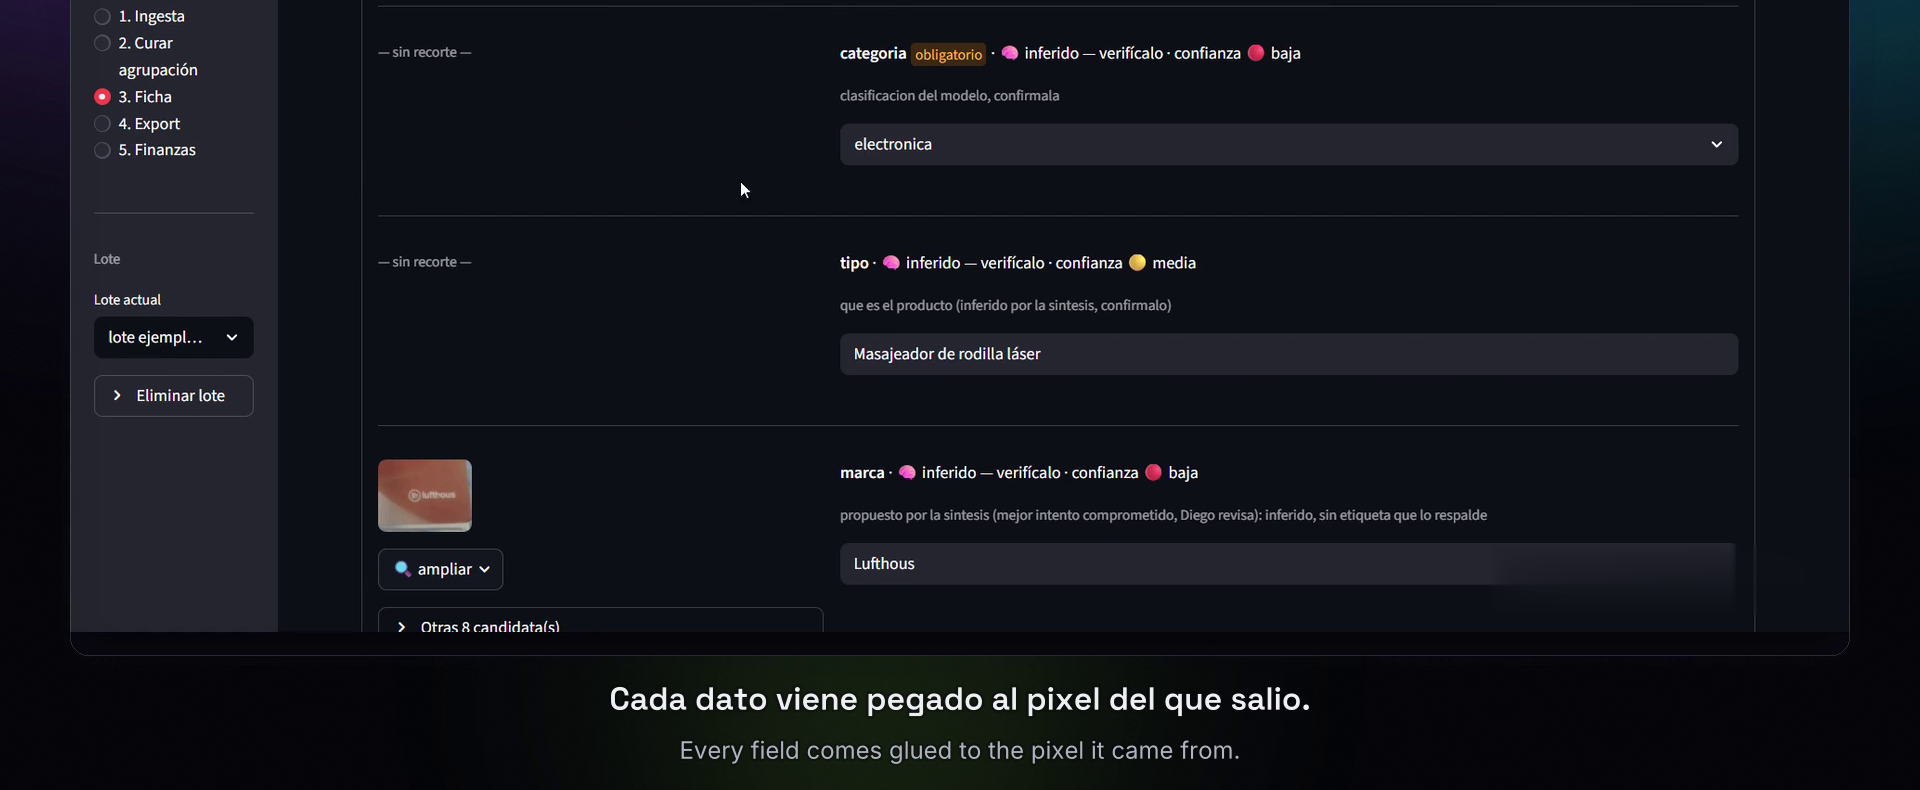
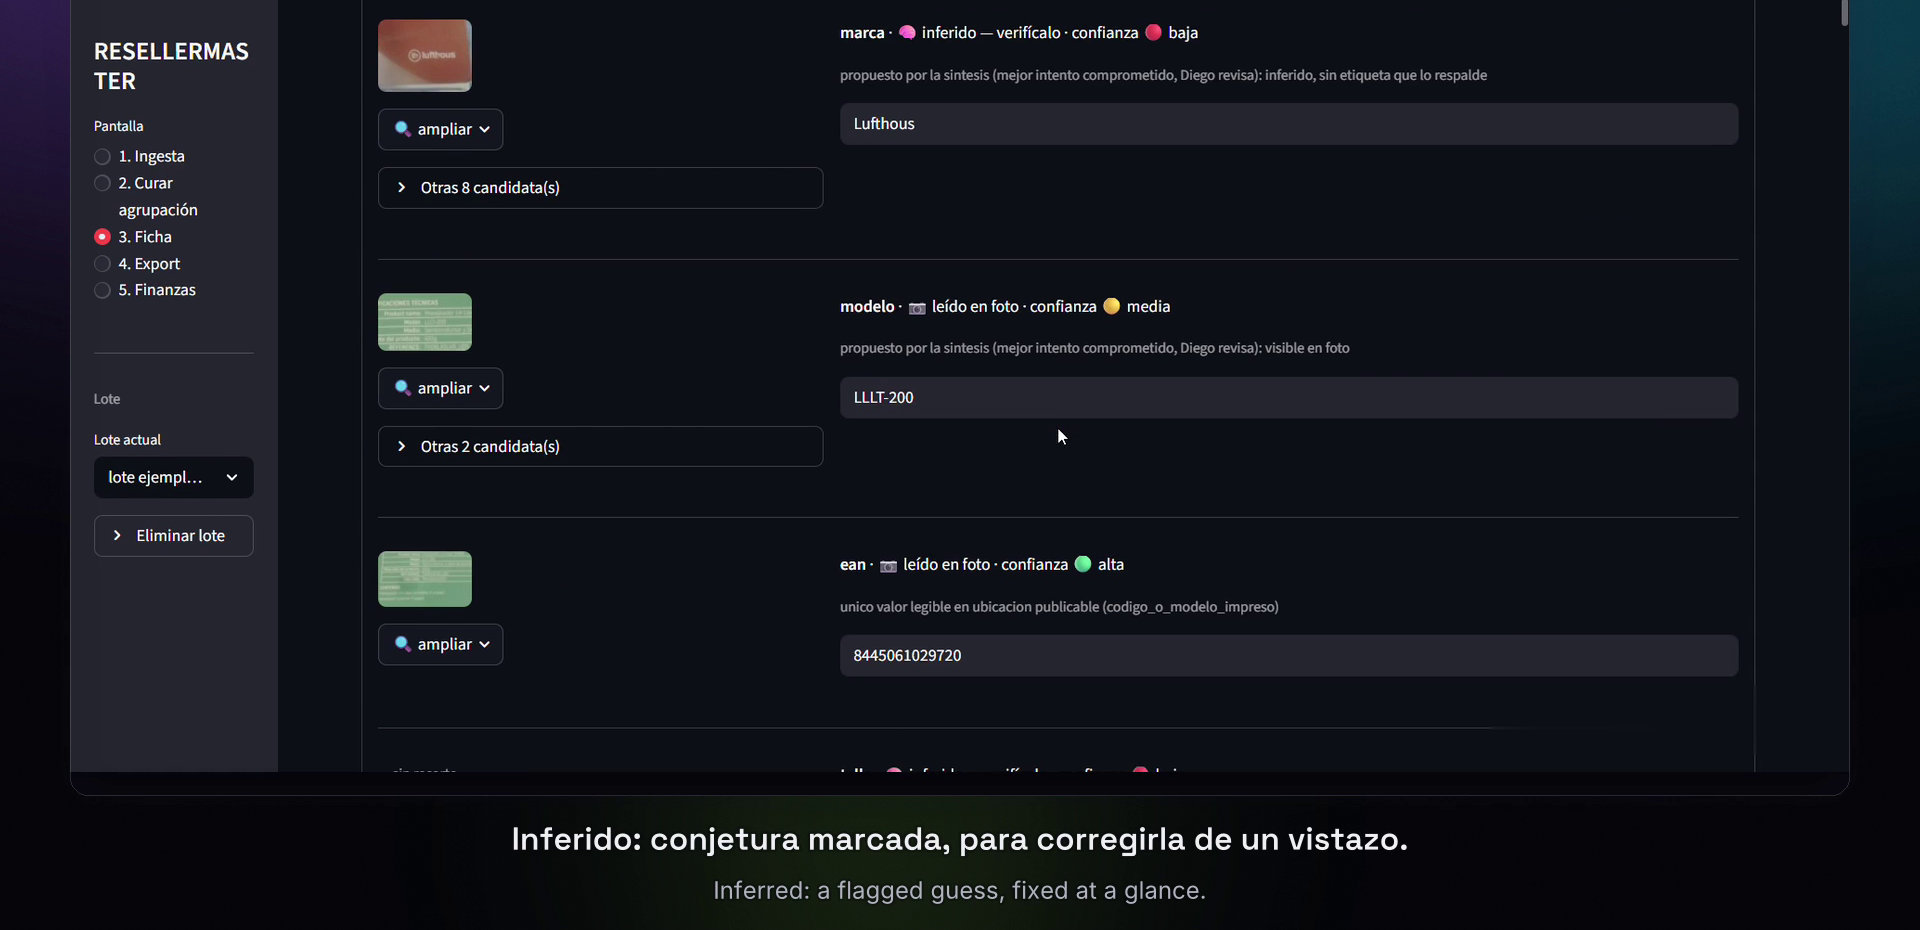
docs+deps: clavar versiones y corregir el README tras un careo adversarial
Un ingeniero (agente) que NO habia visto el portafolio leyo solo el README,
verifico cada afirmacion EJECUTANDO y encontro un patron que duele porque es
la regla §17 del propio repo aplicada al reves: "la prosa va medio paso por
delante de la evidencia".

CORRECCIONES AL README (todas las hallo el careo, ninguna es cosmetica):

- **"3,4 cts · Medido" era FALSO, y es el peor de todos.** Sale de
  `LLMEngine.estimar_coste_lote`, cuyo docstring dice literalmente "no llama a
  la API" y que multiplica una constante de 1.600 tokens/imagen. El numero
  FACTURADO existia (`CLAUDE.md:79`: 14,5 cts / 62 llamadas, 0,95 cts un
  producto con sintesis) y el README lo ignoro para etiquetar "Medido" la
  salida de una funcion que se llama `estimar_`. Ahora estan los dos, con su
  procedencia separada, y se dice que el estimador sobreestima ~1,3x. En el
  unico documento cuya tesis es "un dato sin procedencia es una mentira
  plausible", esta era la grieta que ponia en duda todo lo demas.
- **La captura CONTRADECIA la tesis.** Los tres campos visibles eran 🧠
  inferido y dos "— sin recorte —": la imagen elegida para probar "cada dato
  viene pegado a su pixel" no contenia ni un dato pegado a un pixel.
  Sustituida por un frame con `marca` 🧠 inferido junto a `modelo` y `ean` 📷
  leido en foto, cada uno CON su recorte.
- **"inconstruible" era un absoluto que el codigo no sostiene.** Se rompe por
  tres vias (Campo no es frozen; deserializar_extraccion devuelve dicts sin
[…]

diff --git a/README.md b/README.md
@@ -1,16 +1,20 @@
 # RESELLERMASTER
 
 **Entra un lote de fotos mezcladas de ropa y trastos de segunda mano. Salen fichas listas para pegar
-en Wallapop y Vinted — y la app no afirma ni un solo dato que no pueda señalar en un píxel.**
+en Wallapop y Vinted — y ningún campo dice venir de una foto sin que un `if` haya comprobado el
+píxel que lo prueba.**
 
-![Pantalla de ficha: cada campo con su recorte, su procedencia y su nivel de confianza](docs/img/ficha.png)
+![Pantalla de ficha: `marca` sale como 🧠 inferido con confianza baja; `modelo` y `ean` como 📷 leído en foto, cada uno junto al recorte exacto del que se leyó](docs/img/ficha.png)
+
+<sub>Tres campos del mismo producto: `marca` es una **conjetura marcada** (🧠, confianza baja, *«sin etiqueta que lo respalde»*), mientras que `modelo` y `ean` están **leídos de un píxel concreto** (📷) y el recorte que lo prueba está ahí al lado. El `ean` es el único campo del sistema que puede llegar a `confianza alta`, y sólo porque su checksum GS1 lo verifica.</sub>
 
 > **EN — TL;DR.** A local single-user Streamlit app for second-hand resale. It ingests a batch of mixed
 > photos, groups them per product (human confirms), reads the attributes with OCR + a vision model, and
 > produces copy-paste-ready listings for two Spanish marketplaces. The point isn't the automation — it's
 > the **guardrail**: every field carries its provenance (`foto` / `inferido` / `diego`), and a field
-> claiming to come from a photo **cannot be constructed without the pixel that proves it** — it raises at
-> construction time. Prices never come from the model; they come from observed comparables or they don't
+> claiming to come from a photo **cannot be constructed without the pixel that proves it** — it raises in
+> `__post_init__`. (Scope, stated honestly: that guards construction, which is how everything the pipeline
+> produces gets in; it is not a global invariant.) Prices never come from the model; they come from observed comparables or they don't
 > come at all. Code, docs and commit history are in Spanish.
 
 ---
@@ -56,8 +60,8 @@ if self.fuente == "foto" and self.evidencia is None:
     )
 ```
 
-Un campo que dice venir de la foto sin el píxel que lo respalda **no es que esté desaconsejado: es
-inconstruible**. Y `fuente="foto"` sólo se asigna si el valor está *literalmente contenido* en el texto
+Un campo que dice venir de la foto sin el píxel que lo respalda **no está desaconsejado: no se puede
+construir**. Y `fuente="foto"` sólo se asigna si el valor está *literalmente contenido* en el texto
 legible del recorte citado — no basta con que la cita exista
 ([`core/extract.py::_construir_campo_desde_sintesis`](core/extract.py)). Esa distinción costó un veredicto
 bloqueante en una auditoría interna: el modelo podía **extender** una lectura real (`"Reebok"` →
@@ -66,21 +70,13 @@ bloqueante en una auditoría interna: el modelo podía **extender** una lectura 
 Quien afirma, al final, es el humano: Diego revisa cada campo **con el recorte al lado** y confirma, y ahí
 la `fuente` pasa a `diego`. La máquina propone y enseña el píxel; la persona cierra.
 
-## Sobre leer los precios de Wallapop
-
-`core/pricing.py` hace peticiones **de lectura** a la búsqueda pública de Wallapop para calcular la mediana
-de comparables. Las condiciones están escritas en las reglas del repo
-([`.claude/rules/architecture.md`](.claude/rules/architecture.md)) y se respetan en el código:
-
-- **Leer resultados públicos ≠ publicar.** Nunca se toca una cuenta, no se publica, no se edita, no se
-  mensajea. Cero escritura.
-- **Volumen doméstico**: ~7 productos por lote, pocos lotes al mes — menos peticiones que una persona
-  navegando.
-- **Prohibidas las herramientas *stealth*.** Sin proxies rotativos, sin fingerprints, sin evasión
-  anti-bot. Es un `GET` plano. Vinted se quedó fuera precisamente por eso: su búsqueda está tras Datadome
-  y no se intentó rodearlo.
-
-Si vas a reutilizar esto, la disciplina va con el código.
+**Hasta dónde llega esa garantía, dicho sin adornos.** El `if` protege la *construcción*, que es por donde
+entra todo lo que produce el pipeline. No es un invariante global: `Campo` es un dataclass mutable, así que
+alguien puede construirlo bien y reasignar `fuente` después; y al persistir, `deserializar_extraccion`
+devuelve dicts, no `Campo`s, de modo que un registro manipulado a mano en la base de datos no vuelve a pasar
+por el `if`. Hoy nadie escribe por esas vías —sólo escribe el pipeline, que sí construye `Campo`s— así que
+es un hueco de defensa en profundidad, no un fallo vivo. Pero es una propiedad de una función, no del
+sistema entero, y decirlo de más sería justo el tipo de afirmación que este repo existe para no hacer.
 
 ## Cómo correrlo
 
@@ -103,14 +99,31 @@ Para levantar la app: `streamlit run app.py`. Agrupar y curar es gratis y offlin
 atributos necesita una `ANTHROPIC_API_KEY` en `.env` (ver [`.env.example`](.env.example)) y cuesta
 céntimos, cacheados por hash de imagen.
 
+## Sobre leer los precios de Wallapop
+
+`core/pricing.py` hace peticiones **de lectura** a la búsqueda pública de Wallapop para calcular la mediana
+de comparables. Las condiciones están escritas en las reglas del repo
+([`.claude/rules/architecture.md`](.claude/rules/architecture.md)) y se respetan en el código:
+
+- **Leer resultados públicos ≠ publicar.** Nunca se toca una cuenta, no se publica, no se edita, no se
+  mensajea. Cero escritura.
+- **Volumen doméstico**: ~7 productos por lote, pocos lotes al mes — menos peticiones que una persona
+  navegando.
+- **Prohibidas las herramientas *stealth*.** Sin proxies rotativos, sin fingerprints, sin evasión
+  anti-bot. Es un `GET` plano. Vinted se quedó fuera precisamente por eso: su búsqueda está tras Datadome
+  y no se intentó rodearlo.
+
+Si vas a reutilizar esto, la disciplina va con el código.
+
 ## Los números, y de dónde sale cada uno
 
 Este repo trata la procedencia de un dato de la ficha con dureza, así que la misma vara se aplica aquí:
 
 | Dato | Valor | Procedencia |
 |---|---|---|
-| Alucinaciones sobre 33 fotos reales | **0** | **Medido** con la API real. Se abstiene en las 6 trampas ilegibles del golden set |
-| Coste por producto | **3,4 cts** (0 al reprocesar) | **Medido** — sale de `LLMEngine.estimar_coste_lote` sobre el pipeline real, no de una estimación a ojo |
+| Alucinaciones con `confianza=alta` sobre 33 fotos reales | **0** | **Medido** con la API real — pero léelo con su límite: `alta` es casi inalcanzable **por diseño** (sólo la da un checksum de EAN; el `json_schema` de la síntesis ni admite el literal). El 0 es sobre todo una consecuencia estructural, no un resultado empírico sorprendente. Las de confianza media/baja se imprimen pero no se asertan |
+| Coste por producto, **facturado** | **14,5 cts** el lote de 62 llamadas · **0,95 cts** un producto completo con síntesis · **0** al reprocesar (caché) | **Medido**: es lo que cobró la API |
+| Coste por producto, **estimado a priori** | ~3,4 cts | **Estimado**, y sobreestima ~1,3×. Sale de `LLMEngine.estimar_coste_lote`, que multiplica una constante de 1.600 tokens/imagen y **no llama a la API** — existe para enseñar el coste ANTES de lanzar un lote, no para medirlo |
 | Export de un producto con la app | **~210 s** | **Medido**, cronómetro, **n=1** |
 | Export de un producto a mano | ~285 s | **Estimado** por un panel de agentes. **Nunca cronometrado.** El ahorro es real pero el lado manual no está medido |
 | Umbral de agrupación | **15 s** | **Medido**: barrido de 5 a 30 s sobre las 33 fotos. Zona segura 1-23 s, acantilado en 24 s |
@@ -131,6 +144,23 @@ Tres cosas están centralizadas a propósito, y nada las saltea:
    declarativo. El modelo **rellena un esquema**; no inventa campos ni se olvida de los obligatorios.
    Wallapop y Vinted no coinciden en los literales de estado ni en las tallas, así que hay tablas de
    mapeo con **signo**: presentar el producto peor de lo que es es seguro; mejor, es una devolución.
+
+## La persistencia, que es donde vive el dinero
+
+`core/store.py` (SQLite + disco) tiene tres decisiones que no son obvias y que existen porque el fallo caro
+aquí es **perder o corromper**, no petar:
+
+- **El beneficio de una venta se congela al venderla.** El coste se copia a `coste_snap_cents` en el
+  momento de la venta, así que editar el coste del producto después **no reescribe el histórico**. Probado
+  a mano: cambiar el coste tras vender no altera el beneficio ya registrado.
+- **El número de referencia es una marca de agua**, no un `MAX()+1`: una tabla `AUTOINCREMENT` propia. Si
+  borras o archivas un producto, su número **no se reutiliza** — el que está impreso en un anuncio vivo
+  sigue siendo único.
+- **El dinero vive en columnas propias**, fuera del JSON `campos` que `guardar_extraccion` sobreescribe
+  entero. Y `borrar_lote` **se bloquea** si el lote tiene ventas, antes de tocar el disco.
+
+`st.session_state` es una caché, nunca la verdad: el estado del lote se escribe a disco, porque un rerun de
+Streamlit no puede costar dos horas de curado.
 
 ## Lo que decidí NO construir (y por qué, con el dato)
 
